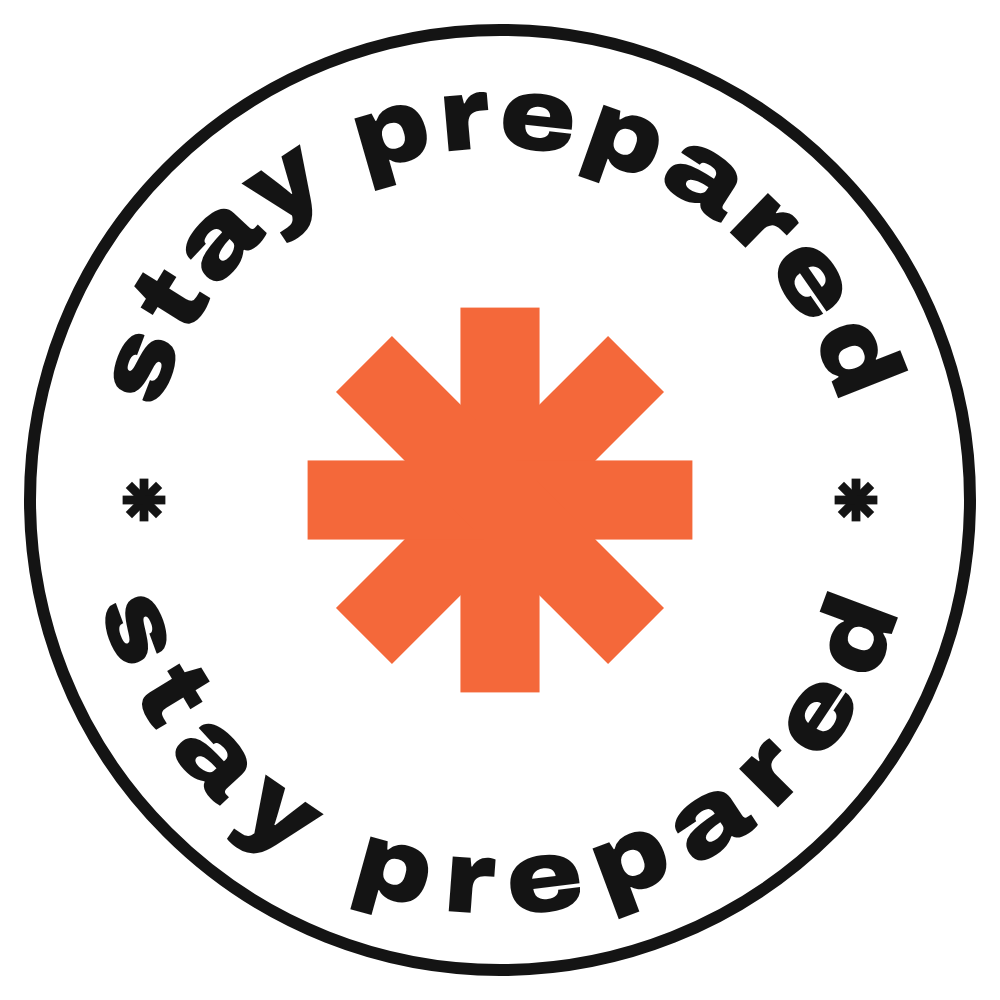
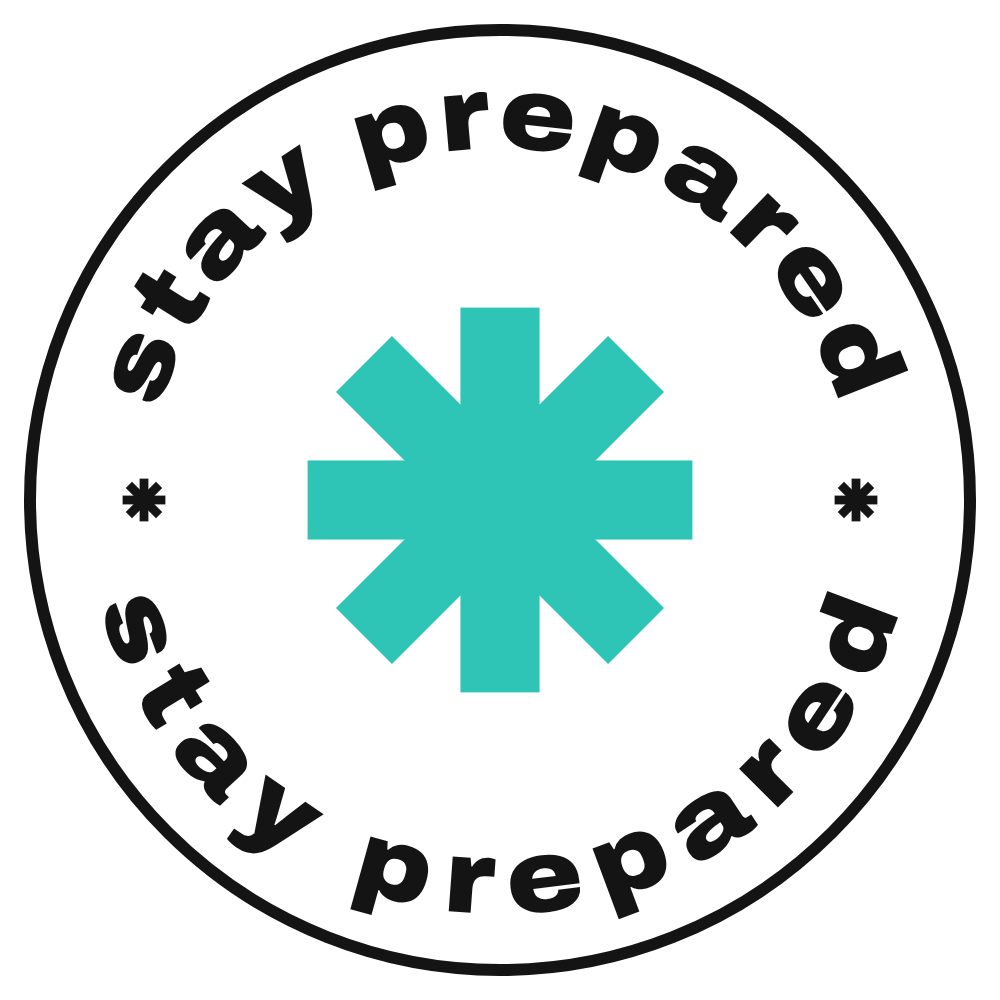
Badge: teal mark instead of orange
The owner's call: orange on ink and paper read too close to a
historical colour pairing. The mark is now the people teal.

Claude-Session: https://claude.ai/code/session_01MzNVUbnaK5G4TG6VRBN1pe

Changed region(s): [[0.31, 0.31, 0.713, 0.713]]

diff --git a/DESIGN.md b/DESIGN.md
@@ -246,7 +246,7 @@ A bold underlined text link ending in the arrow, 44px tall, width 110. Hover thi
 ### Logo
 Adopted 25 September 2026. The mark is an **asterisk of four square-ended bars** (each 14.651 by 71.263, rotated 0, 45, 90 and 135 degrees about one centre), the site's own mark, drawn by the owner (Figma frame "Cross"). It sits to the left of the words, closed up to match the web address: **✱stayprepared** (changed from two words on 25 September 2026), at 0.85em, centred on the line, 0.3em from the s. It is always one colour, `currentColor`: ink on paper, paper on the ink footer, never a category colour. `components/Wordmark.tsx` holds both the lockup and the bare `Asterisk`. The closed-up spelling is for the lockup only: in sentences, titles and metadata the name stays "Stay Prepared", and the lockup gives screen readers "Stay Prepared" as hidden text.
 
-- **Share image:** `app/opengraph-image.png`, drawn by `scripts/og.mjs`. **Profile picture** (Pinterest, Bluesky): `public/brand/avatar.png` (ink on paper) and `avatar-ink.png` (paper on ink), a round badge with "stay prepared" set round the asterisk, drawn by `scripts/avatar.mjs`. The asterisk in the badge is the food orange with no outline, chosen by the owner on 26 September 2026: a brand exception to the Label Rule that applies to the social profile picture only. **Pins:** `public/pins/`, drawn by `scripts/pins.mjs`. Both carry the lockup; rerun them after changing it. Pins (revised 26 September 2026) put the lockup small in the footer, not at the top; a pin that names water, food or power fills with that category colour, the rest are ink on paper; each ends with one line saying what the linked page adds. The weather warnings pin shows the Met Office's yellow, amber and red as named swatches: the one exception to the Label Rule, because they are official colours and the pin means nothing without them. They appear nowhere else.
+- **Share image:** `app/opengraph-image.png`, drawn by `scripts/og.mjs`. **Profile picture** (Pinterest, Bluesky): `public/brand/avatar.png` (ink on paper) and `avatar-ink.png` (paper on ink), a round badge with "stay prepared" set round the asterisk, drawn by `scripts/avatar.mjs`. The asterisk in the badge is the people teal (#2ec4b6) with no outline, chosen by the owner on 26 September 2026: a brand exception to the Label Rule that applies to the social profile picture only. **Pins:** `public/pins/`, drawn by `scripts/pins.mjs`. Both carry the lockup; rerun them after changing it. Pins (revised 26 September 2026) put the lockup small in the footer, not at the top; a pin that names water, food or power fills with that category colour, the rest are ink on paper; each ends with one line saying what the linked page adds. The weather warnings pin shows the Met Office's yellow, amber and red as named swatches: the one exception to the Label Rule, because they are official colours and the pin means nothing without them. They appear nowhere else.
 
 - **Favicon:** `app/icon.svg`, the bare asterisk in ink, switching to paper when the browser is dark. `app/favicon.ico` (16, 32, 48) and `app/icon.png` are the fallbacks, drawn by `scripts/icons.mjs` from `public/brand/mark.svg`; rerun it after changing the mark.
 - **Home screen:** `app/apple-icon.png`, 180px, ink asterisk on paper, drawn by the same script.
